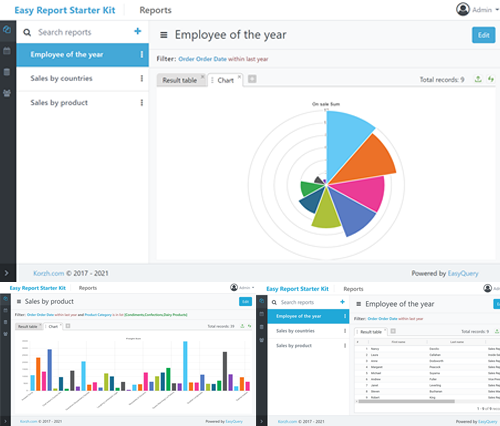
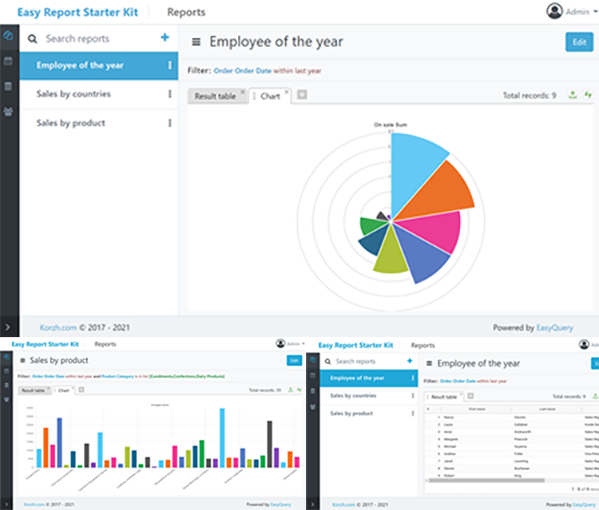
remove paddings in easyquery, easyreport

diff --git a/easyquery.html b/easyquery.html
@@ -32,9 +32,10 @@
 
 <section class="container-fluid bg-light easyquery-hero">
     <div class="container">
-        <div class="row mt-20">
+        <div class="row">
             <div class="cell-lg-6 d-flex flex-column flex-justify-center">
-                <h1 class="hero-section__header">EASYQUERY - build a .NET database application simple and easy</h1>
+                <h1 class="hero-section__header">EASYQUERY</h1>
+                <h2 class="mt-0">Build a .NET database application simple and easy</h2>
                 <div class="text-leader2">
                     <p class="mt-1">
                         Long story short, EasyQuery will be useful to you if you are creating a .NET application that works with a database.
@@ -55,18 +56,15 @@
 
             <div class="cell-lg-1"></div>
 
-            <div class="cell-lg-5 d-none d-flex-lg flex-column flex-justify-center pl-10-lg hero-images">
-                <div class="shadow-3">
-                    <img src="https://korzh.com/static/images/eq/slides/eq-ss-advanced-search.png" alt="" style="transform: scale(1.3)" class="shadow-3">
+            <div class="cell-lg-5 d-none d-flex-lg flex-column flex-justify-center">
+                <div class="">
+                    <img src="https://korzh.com/static/images/eq/slides/eq-ss-advanced-search.png" alt="" style="transform: scale(1)" class="">
                 </div>
             </div>
         </div>
     </div>
 </section>
 
-<br/>
-<br/>
-<br/>
 <br/>
 <br/>
 
@@ -118,9 +116,6 @@
 
 <br/>
 <br/>
-<br/>
-<br/>
-<br/>
 
 <section class="container-fluid">
     <div class="container">
@@ -138,7 +133,7 @@
 
         <div>
             <div id="reporting">
-                <div class="row mt-20">
+                <div class="row mt-10">
                     <div class="cell-lg-6 pr-10">
                         <div class="border bd-default">
                             <img src="https://korzh.com/static/images/eq/slides/eq-ss-adhoc-reporting.png"/>
@@ -200,7 +195,7 @@
                 </div>
             </div>
         </div>
-        <div class="mt-20">
+        <div class="mt-10">
             <p class="text-leader text-center text-bold">...or any other end-user interface related to data manipulating</p>
         </div>
     </div>
@@ -208,9 +203,7 @@
 
 <br/>
 <br/>
-<br/>
-<br/>
-<br/>
+
 
 <section class="container-fluid easy-js">
     <div class="container">
@@ -243,9 +236,7 @@
 
 <br/>
 <br/>
-<br/>
-<br/>
-<br/>
+
 
 <section class="container-fluid">
     <div class="container">
@@ -298,9 +289,7 @@
 
 <br/>
 <br/>
-<br/>
-<br/>
-<br/>
+
 
 <section class="container-fluid">
     <div class="container">
@@ -324,11 +313,9 @@
 
 <br/>
 <br/>
-<br/>
-<br/>
-<br/>
 
-<section class="container-fluid bg-light pt-20 pb-20">
+
+<section class="container-fluid bg-light pt-10 pb-10">
     <div class="container">
         <h2 class="text-center text-bold">SUPPORTED <span>TECHNOLOGIES</span></h2>
         <div class="row mt-10">
@@ -495,7 +482,7 @@
 </section>
 
 <section class="container-fluid" id="licensing">
-    <div class="container pt-20 pb-20">
+    <div class="container pt-10 pb-10">
         <h2 class="text-center text-bold">LICENSE <span>PRICE</span></h2>
         <p class="text-center">Read the <a href="license.html">End User License Agreement</a> before installing EasyQuery.</p>
         <ul data-role="tabs" data-expand-point="md" data-tabs-type="pills" data-cls-tabs="flex-justify-center mt-10 mb-10">
@@ -959,7 +946,7 @@
 </section>
 
 <section class="container-fluid bg-light">
-    <div class="container pt-20 pb-20">
+    <div class="container pt-10 pb-10">
         <h2 class="text-center text-bold">FREQUENTLY ASKED QUESTIONS</h2>
         <div class="mt-20">
             <div class="question">Do I need to pay some additional fee per domain, or per user, etc.?</div>

diff --git a/easyreport.html b/easyreport.html
@@ -32,9 +32,10 @@
 
 <section class="container-fluid bg-light easyreport-hero">
     <div class="container">
-        <div class="row mt-20">
+        <div class="row">
             <div class="cell-lg-6 d-flex flex-column flex-justify-center">
-                <h1 class="hero-section__header">EASYREPORT STARTER KIT - ASP.NET Core solution template for ad-hoc reporting (ERSK)</h1>
+                <h1 class="hero-section__header">EASYREPORT STARTER KIT</h1>
+                <h2 class="mt-0">ASP.NET Core solution template for ad-hoc reporting (ERSK)</h2>
                 <div class="text-leader2">
                     <div class="mt-1">
                         <ul>
@@ -63,9 +64,9 @@
 
             <div class="cell-lg-1"></div>
 
-            <div class="cell-lg-5 d-none d-flex-ld flex-column flex-justify-center pl-10-lg hero-images">
-                <div class="shadow-3">
-                    <img src="images/easy-report-1.png" alt="" style="transform: scale(1.3)" class="shadow-3">
+            <div class="cell-lg-5 d-none d-flex-ld flex-column flex-justify-center hero-images">
+                <div class="">
+                    <img src="images/easy-report-1.png" alt="" style="height: 510px">
                 </div>
             </div>
         </div>
@@ -74,14 +75,11 @@
 
 <br/>
 <br/>
-<br/>
-<br/>
-<br/>
 
 <section class="container-fluid">
     <div class="container">
         <h2 class="text-center text-bold">MAIN BENEFITS</h2>
-        <div class="row mt-20">
+        <div class="row mt-10">
             <div class="cell-md-6 p-1">
                 <div class="p-10 border bd-default h-100">
                     <h4>CLEAN ARCHITECTURE AND BEST PRACTICES</h4>
@@ -160,9 +158,6 @@
 
 <br/>
 <br/>
-<br/>
-<br/>
-<br/>
 
 <section class="container-fluid easy-js">
     <div class="container">
@@ -198,9 +193,6 @@
     </div>
 </section>
 
-<br/>
-<br/>
-<br/>
 <br/>
 <br/>
 
@@ -288,12 +280,9 @@
 
 <br/>
 <br/>
-<br/>
-<br/>
-<br/>
 
 <section class="container-fluid bg-light">
-    <div class="container pt-20 pb-20">
+    <div class="container pt-10 pb-10">
         <h2 class="text-center text-bold">FREQUENTLY ASKED QUESTIONS</h2>
         <div class="mt-20">
             <div class="question">Will I pay any additional fees (per domain, per user, etc) if I buy a license for ERSK Pro?</div>

diff --git a/css/index.css b/css/index.css
@@ -75,7 +75,7 @@ body {
   right: 0;
 }
 .easy-js {
-  padding: 100px 0 100px;
+  padding: 40px 0 40px;
   background-color: #ffccea;
 }
 .localizer-js {
@@ -138,7 +138,7 @@ footer .mute-text {
   background: url(../images/ViewsBackground_Left_Narrow.svg) left center / contain no-repeat scroll padding-box border-box, url(../images/ViewsBackground_Right_Narrow.svg) right center / contain no-repeat scroll padding-box border-box, linear-gradient(60deg, #5243aa, #ed50b4) 0% 0% / auto repeat scroll padding-box border-box #5243aa;
   background-blend-mode: normal, normal;
   color: #ffffff;
-  padding: 40px 0 120px;
+  padding: 0px 0 0px;
 }
 .login-body {
   background: url(../images/ViewsBackground_Left_Narrow.svg) left center / contain no-repeat scroll padding-box border-box, url(../images/ViewsBackground_Right_Narrow.svg) right center / contain no-repeat scroll padding-box border-box, linear-gradient(60deg, #5243aa, #468cff) 0% 0% / auto repeat scroll padding-box border-box #5243aa;
@@ -154,7 +154,7 @@ footer .mute-text {
   background: url(../images/ViewsBackground_Left_Narrow.svg) left center / contain no-repeat scroll padding-box border-box, url(../images/ViewsBackground_Right_Narrow.svg) right center / contain no-repeat scroll padding-box border-box, linear-gradient(60deg, #792e78, #d38ef6) 0% 0% / auto repeat scroll padding-box border-box #792e78;
   background-blend-mode: normal, normal;
   color: #ffffff;
-  padding: 40px 0 140px;
+  padding: 0;
 }
 .easyquery-color {
   background: linear-gradient(60deg, #5243aa, #ed50b4) 0% 0% / auto repeat scroll padding-box border-box #5243aa;
@@ -204,7 +204,7 @@ footer .mute-text {
   font-weight: bold;
 }
 .more-question {
-  padding: 80px 0;
+  padding: 10px 0 40px;
 }
 .login-body {
   padding: 10px;
@@ -242,7 +242,7 @@ footer .mute-text {
 .easyquery-editions-bg {
   background-color: #792e78;
   color: #ffffff;
-  padding: 120px 0;
+  padding: 40px 0;
 }
 .easyquery-editions-tabs li.active {
   background-color: #8d388c !important;

diff --git a/css/index.less b/css/index.less
@@ -94,7 +94,7 @@ body {
 }
 
 .easy-js {
-    padding: 100px 0 100px;
+    padding: 40px 0 40px;
     background-color: #ffccea;
 }
 
@@ -182,7 +182,7 @@ footer {
             linear-gradient(60deg, rgb(82, 67, 170), rgb(237, 80, 180)) 0% 0% / auto repeat scroll padding-box border-box rgb(82, 67, 170);
     background-blend-mode: normal, normal;
     color: rgb(255, 255, 255);
-    padding: 40px 0 120px;
+    padding: 0px 0 0px;
 }
 
 .login-body {
@@ -213,7 +213,7 @@ footer {
             linear-gradient(60deg, rgb(121,46,120), rgb(211, 142, 246)) 0% 0% / auto repeat scroll padding-box border-box rgb(121,46,120);
     background-blend-mode: normal, normal;
     color: rgb(255, 255, 255);
-    padding: 40px 0 140px;
+    padding: 0;
 }
 
 .easyquery-color {
@@ -280,7 +280,7 @@ footer {
 }
 
 .more-question {
-    padding: 80px 0;
+    padding: 10px 0 40px;
 }
 
 .login-body {
@@ -328,7 +328,7 @@ footer {
 .easyquery-editions-bg {
     background-color: rgb(121,46,120);
     color: #ffffff;
-    padding: 120px 0;
+    padding: 40px 0;
 }
 .easyquery-editions-tabs {
     li {
